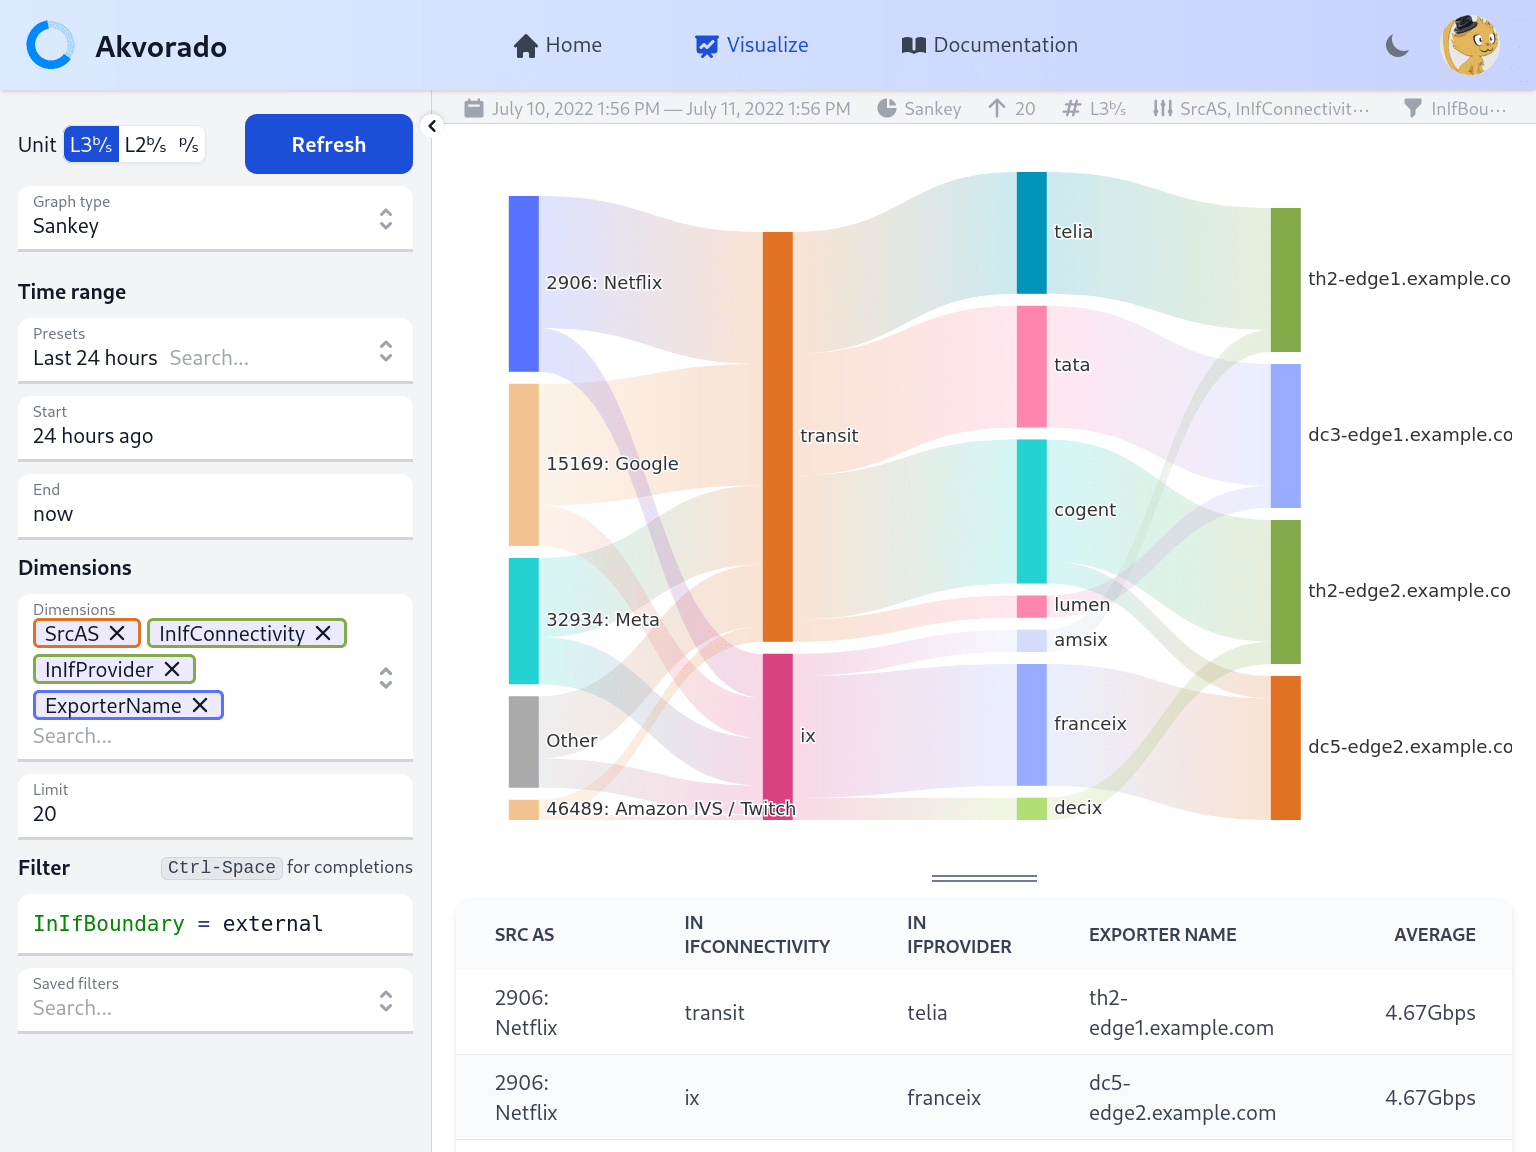
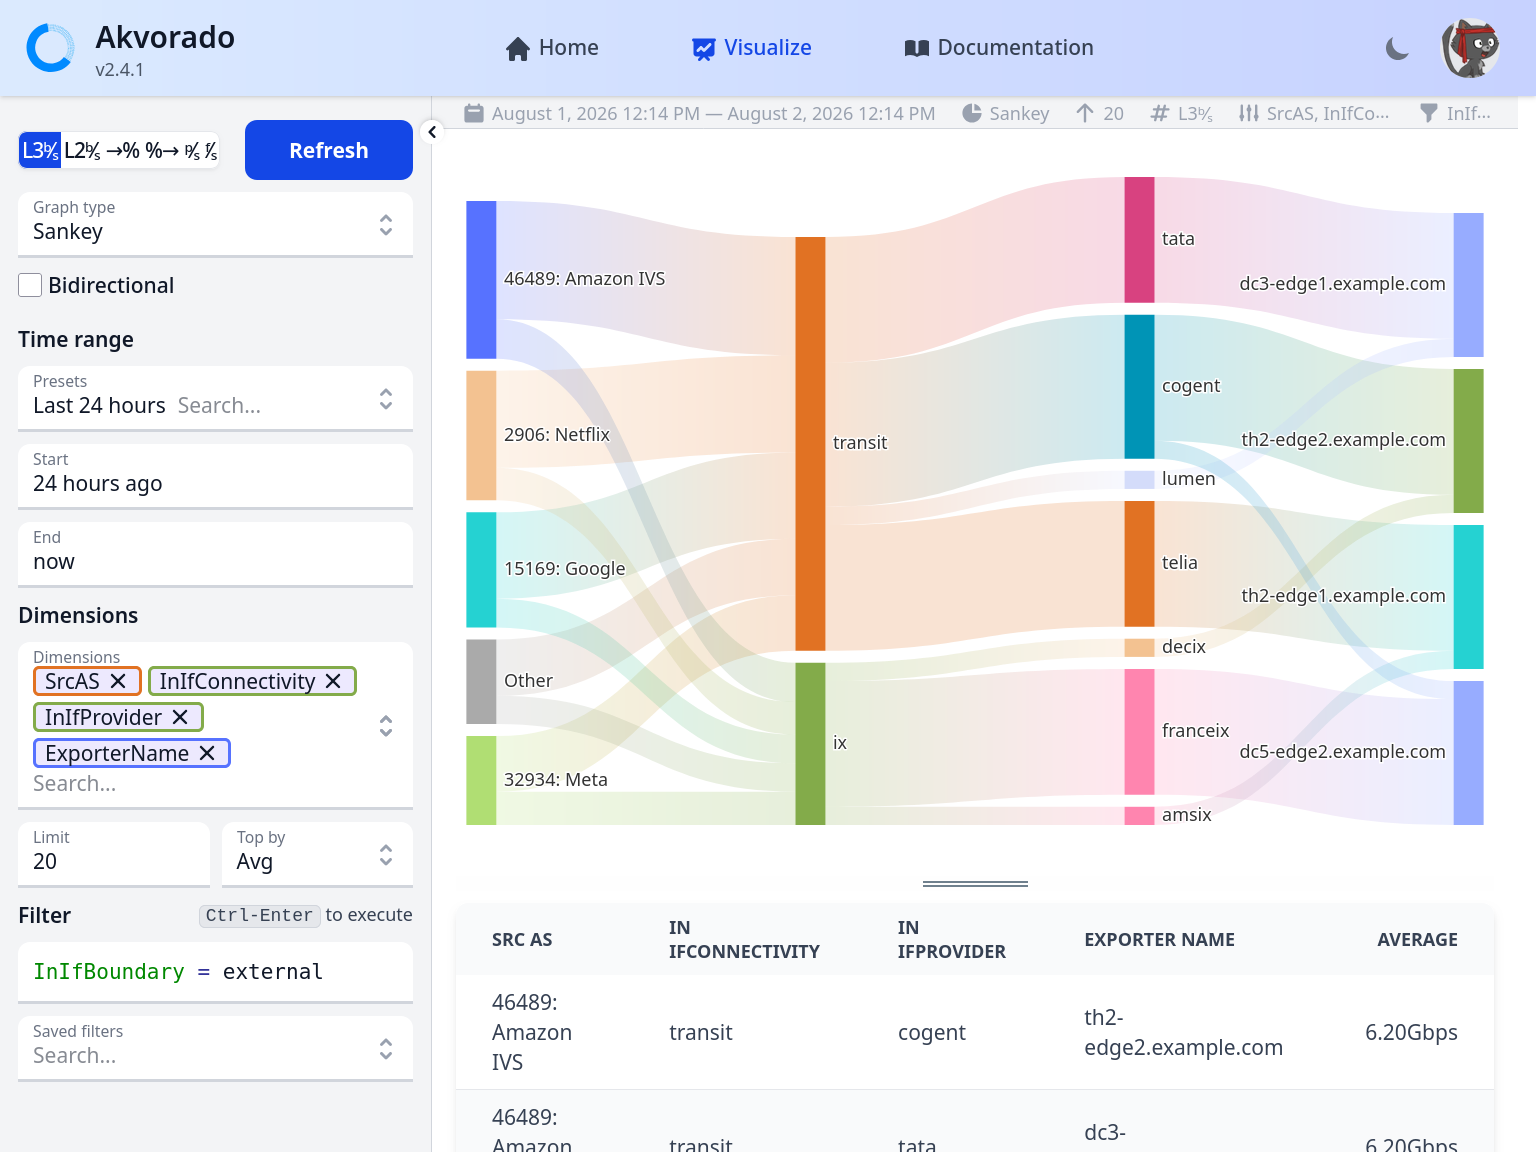
docs: update screenshots
And provide a script to do it again. Could this be done by CI for always
up-to-date screenshots? Let's not spend too much time on this.

diff --git a/console/data/screenshots.py b/console/data/screenshots.py
@@ -1,0 +1,316 @@
+#!/usr/bin/env python3
+# SPDX-FileCopyrightText: 2026 Free Mobile
+# SPDX-License-Identifier: AGPL-3.0-only
+
+"""Regenerate the screenshots used in the documentation.
+
+It drives a headless Firefox through the Marionette protocol. By default, it
+takes the screenshots on the public demo site. Use "make docs-screenshots" to
+run it.
+
+"""
+
+import argparse
+import base64
+import json
+import os
+import shutil
+import socket
+import subprocess
+import sys
+import tempfile
+import time
+
+# The screenshots are 1536x1152: 1024x768 CSS pixels with a device pixel ratio
+# of 1.5. A width of 1024 is also what puts the options panel of the "visualize"
+# page on the left instead of on top.
+WIDTH, HEIGHT = 1024, 768
+DEVICE_PIXEL_RATIO = "1.5"
+MARIONETTE_PORT = 2828
+
+ROOT = os.path.dirname(os.path.dirname(os.path.dirname(os.path.abspath(__file__))))
+
+# A graph is complete when the chart is drawn and the table below it is filled.
+GRAPH_READY = (
+    "document.querySelectorAll('canvas').length >= 1"
+    " && document.querySelectorAll('table tbody tr').length > 2"
+)
+# On the home page, the widgets are fetched one by one and the number of flows
+# starts as "???".
+HOME_READY = (
+    "document.querySelectorAll('canvas').length >= 6"
+    " && !document.body.innerText.includes('???')"
+)
+# A documentation page is complete when the text and the table of contents on
+# the left are both rendered.
+DOCS_READY = (
+    "document.querySelector('.prose h1')"
+    " && document.querySelectorAll('nav a').length > 5"
+)
+
+# The screenshots to take, written to "<name>.png". A shot with a "visualize"
+# key targets the "visualize" page: it holds the options to select there, which
+# are turned into a compressed URL below, and the options panel is opened before
+# taking the shot.
+SHOTS = {
+    "home": {"path": "/", "ready": HOME_READY},
+    "documentation": {"path": "/docs", "ready": DOCS_READY},
+    "timeseries": {"visualize": {}, "ready": GRAPH_READY},
+    "sankey": {
+        "ready": GRAPH_READY,
+        "visualize": {
+            "graphType": "sankey",
+            "dimensions": ["SrcAS", "InIfConnectivity", "InIfProvider", "ExporterName"],
+            "limit": 20,
+        },
+    },
+}
+
+
+def encode_states(states):
+    """Build the URL fragment holding the options of the "visualize" page.
+
+    The console compresses the options with lz-string. Instead of implementing
+    the algorithm again, use the copy shipped with the frontend.
+    """
+    if not states:
+        return {}
+    script = """
+const LZString = require("lz-string");
+const now = new Date();
+const start = new Date(now.getTime() - 24 * 3600 * 1000);
+const states = JSON.parse(process.argv[1]);
+const result = {};
+for (const [name, extra] of Object.entries(states)) {
+  const state = {
+    graphType: "stacked",
+    start: start.toISOString(),
+    end: now.toISOString(),
+    humanStart: "24 hours ago",
+    humanEnd: "now",
+    dimensions: ["SrcAS"],
+    limit: 10,
+    limitType: "avg",
+    "truncate-v4": 32,
+    "truncate-v6": 128,
+    filter: "InIfBoundary = external",
+    units: "l3bps",
+    bidirectional: false,
+    previousPeriod: false,
+    ...extra,
+  };
+  result[name] =
+    "v1-" +
+    LZString.compressToEncodedURIComponent(
+      JSON.stringify(state, Object.keys(state).sort()),
+    );
+}
+console.log(JSON.stringify(result));
+"""
+    frontend = os.path.join(ROOT, "console", "frontend")
+    if not os.path.isdir(os.path.join(frontend, "node_modules", "lz-string")):
+        sys.exit("lz-string is missing, run 'make console/frontend/node_modules'")
+    out = subprocess.run(
+        ["node", "-e", script, "--", json.dumps(states)],
+        cwd=frontend,
+        check=True,
+        capture_output=True,
+        text=True,
+    )
+    return json.loads(out.stdout)
+
+
+class Marionette:
+    """A minimal client for the Marionette protocol of Firefox.
+
+    Messages are JSON arrays prefixed by their length in bytes.
+    """
+
+    def __init__(self, port):
+        self.sock = socket.create_connection(("127.0.0.1", port), timeout=60)
+        self.sock.settimeout(180)
+        self.buf = b""
+        self.msgid = 0
+        self.receive()  # the server starts by sending its capabilities
+
+    def receive(self):
+        while b":" not in self.buf:
+            self.buf += self.sock.recv(65536)
+        length, _, rest = self.buf.partition(b":")
+        length = int(length)
+        while len(rest) < length:
+            rest += self.sock.recv(65536)
+        self.buf = rest[length:]
+        return json.loads(rest[:length])
+
+    def call(self, command, params=None):
+        self.msgid += 1
+        payload = json.dumps([0, self.msgid, command, params or {}]).encode()
+        self.sock.sendall(b"%d:%s" % (len(payload), payload))
+        while True:
+            message = self.receive()
+            if message[0] == 1 and message[1] == self.msgid:
+                if message[2] is not None:
+                    raise RuntimeError(f"{command}: {message[2]}")
+                return message[3]
+
+    def script(self, js):
+        return self.call("WebDriver:ExecuteScript", {"script": js, "args": []})["value"]
+
+    def wait_for(self, condition, timeout=90):
+        deadline = time.time() + timeout
+        while time.time() < deadline:
+            try:
+                if self.script(f"return !!({condition});"):
+                    return True
+            except RuntimeError:
+                pass  # the page may still be loading
+            time.sleep(1)
+        print(f"  timeout waiting for: {condition}", file=sys.stderr)
+        return False
+
+    def fit_viewport(self):
+        """Resize the window until the viewport has the expected size."""
+        self.call("WebDriver:SetWindowRect", {"width": WIDTH, "height": HEIGHT})
+        for _ in range(5):
+            inner = self.script("return [window.innerWidth, window.innerHeight];")
+            missing = (WIDTH - inner[0], HEIGHT - inner[1])
+            if missing == (0, 0):
+                return inner
+            rect = self.call("WebDriver:GetWindowRect")
+            self.call(
+                "WebDriver:SetWindowRect",
+                {
+                    "width": int(rect["width"] + missing[0]),
+                    "height": int(rect["height"] + missing[1]),
+                },
+            )
+        return self.script("return [window.innerWidth, window.innerHeight];")
+
+    def screenshot(self, path):
+        data = self.call("WebDriver:TakeScreenshot", {"full": False, "hash": False})
+        with open(path, "wb") as f:
+            f.write(base64.b64decode(data["value"]))
+
+
+def start_firefox(profile):
+    """Start a headless Firefox and wait for Marionette to accept connections."""
+    if shutil.which("firefox") is None:
+        sys.exit("firefox is not installed")
+    with open(os.path.join(profile, "user.js"), "w") as f:
+        f.write(f"""
+user_pref("layout.css.devPixelsPerPx", "{DEVICE_PIXEL_RATIO}");
+user_pref("browser.shell.checkDefaultBrowser", false);
+user_pref("browser.startup.homepage_override.mstone", "ignore");
+user_pref("datareporting.policy.dataSubmissionEnabled", false);
+user_pref("toolkit.telemetry.enabled", false);
+user_pref("app.update.enabled", false);
+""")
+    process = subprocess.Popen(
+        [
+            "firefox",
+            "--headless",
+            "--marionette",
+            "--no-remote",
+            "-profile",
+            profile,
+            "--window-size",
+            f"{WIDTH},{HEIGHT}",
+            "about:blank",
+        ],
+        stdout=subprocess.DEVNULL,
+        stderr=subprocess.DEVNULL,
+        env={**os.environ, "MOZ_MARIONETTE": "1"},
+    )
+    for _ in range(60):
+        try:
+            socket.create_connection(("127.0.0.1", MARIONETTE_PORT), timeout=2).close()
+            return process
+        except OSError:
+            time.sleep(1)
+    process.kill()
+    sys.exit("Firefox did not start")
+
+
+def main():
+    parser = argparse.ArgumentParser(description=__doc__)
+    parser.add_argument(
+        "--url",
+        default="https://demo.akvorado.net",
+        help="console to take the screenshots from",
+    )
+    parser.add_argument(
+        "--output",
+        default=os.path.join(ROOT, "console", "data", "docs"),
+        help="where to write the PNG files",
+    )
+    parser.add_argument(
+        "screenshot",
+        nargs="*",
+        help="screenshots to generate, among {} (default: all of them)".format(
+            ", ".join(SHOTS)
+        ),
+    )
+    options = parser.parse_args()
+    base = options.url.rstrip("/")
+
+    selected = options.screenshot or list(SHOTS)
+    for name in selected:
+        if name not in SHOTS:
+            parser.error(
+                "unknown screenshot {!r}, choose from {}".format(
+                    name, ", ".join(SHOTS)
+                )
+            )
+    states = encode_states(
+        {name: SHOTS[name]["visualize"] for name in selected if "visualize" in SHOTS[name]}
+    )
+
+    with tempfile.TemporaryDirectory() as profile:
+        process = start_firefox(profile)
+        try:
+            marionette = Marionette(MARIONETTE_PORT)
+            marionette.call("WebDriver:NewSession", {"capabilities": {}})
+            marionette.call("WebDriver:Navigate", {"url": f"{base}/"})
+            width, height = marionette.fit_viewport()
+            if (width, height) != (WIDTH, HEIGHT):
+                print(f"warning: viewport is {width}x{height}", file=sys.stderr)
+            for name in selected:
+                shot = SHOTS[name]
+                print(f"▶ {name}.png")
+                if name in states:
+                    url = f"{base}/visualize/{states[name]}"
+                else:
+                    url = f"{base}{shot['path']}"
+                marionette.call("WebDriver:Navigate", {"url": url})
+                marionette.wait_for(shot["ready"])
+                if name in states:
+                    # The options panel starts collapsed. The documentation
+                    # describes the options it holds, so open it.
+                    marionette.script(
+                        "const b = document.querySelector('aside button');"
+                        "if (b && !document.querySelector('aside form div'))"
+                        " b.click();"
+                    )
+                    marionette.wait_for(
+                        "document.querySelector('aside form div')", timeout=20
+                    )
+                time.sleep(6)  # let the animations of the charts finish
+                target = os.path.join(options.output, f"{name}.png")
+                marionette.screenshot(target)
+                if shutil.which("optipng"):
+                    subprocess.run(
+                        ["optipng", "-quiet", "-o5", "-strip", "all", target],
+                        check=False,
+                    )
+                print(f"  {os.path.getsize(target) // 1024} KB")
+        finally:
+            process.terminate()
+            try:
+                process.wait(timeout=10)
+            except subprocess.TimeoutExpired:
+                process.kill()
+
+
+if __name__ == "__main__":
+    main()

diff --git a/README.md b/README.md
@@ -31,7 +31,15 @@ A [Grafana plugin](https://github.com/ovh/grafana-akvorado) is available.
 
 ## Getting help
 
-The first step is to read the [documentation](https://demo.akvorado.net/docs):
+The first step is to read the [documentation](https://demo.akvorado.net/docs).
+It ships with *Akvorado*: the running console serves the version you use, under
+the “Documentation” tab.
+
+[![Documentation](console/data/docs/documentation.png)](https://demo.akvorado.net/docs)
+
+It is organized with the [Diátaxis](https://diataxis.fr) framework, in four
+parts: tutorials, how-to guides, reference and explanation. Good entry points
+are:
 
 - the [introduction](https://demo.akvorado.net/docs/intro),
 - the [tutorial](https://demo.akvorado.net/docs/collect),
